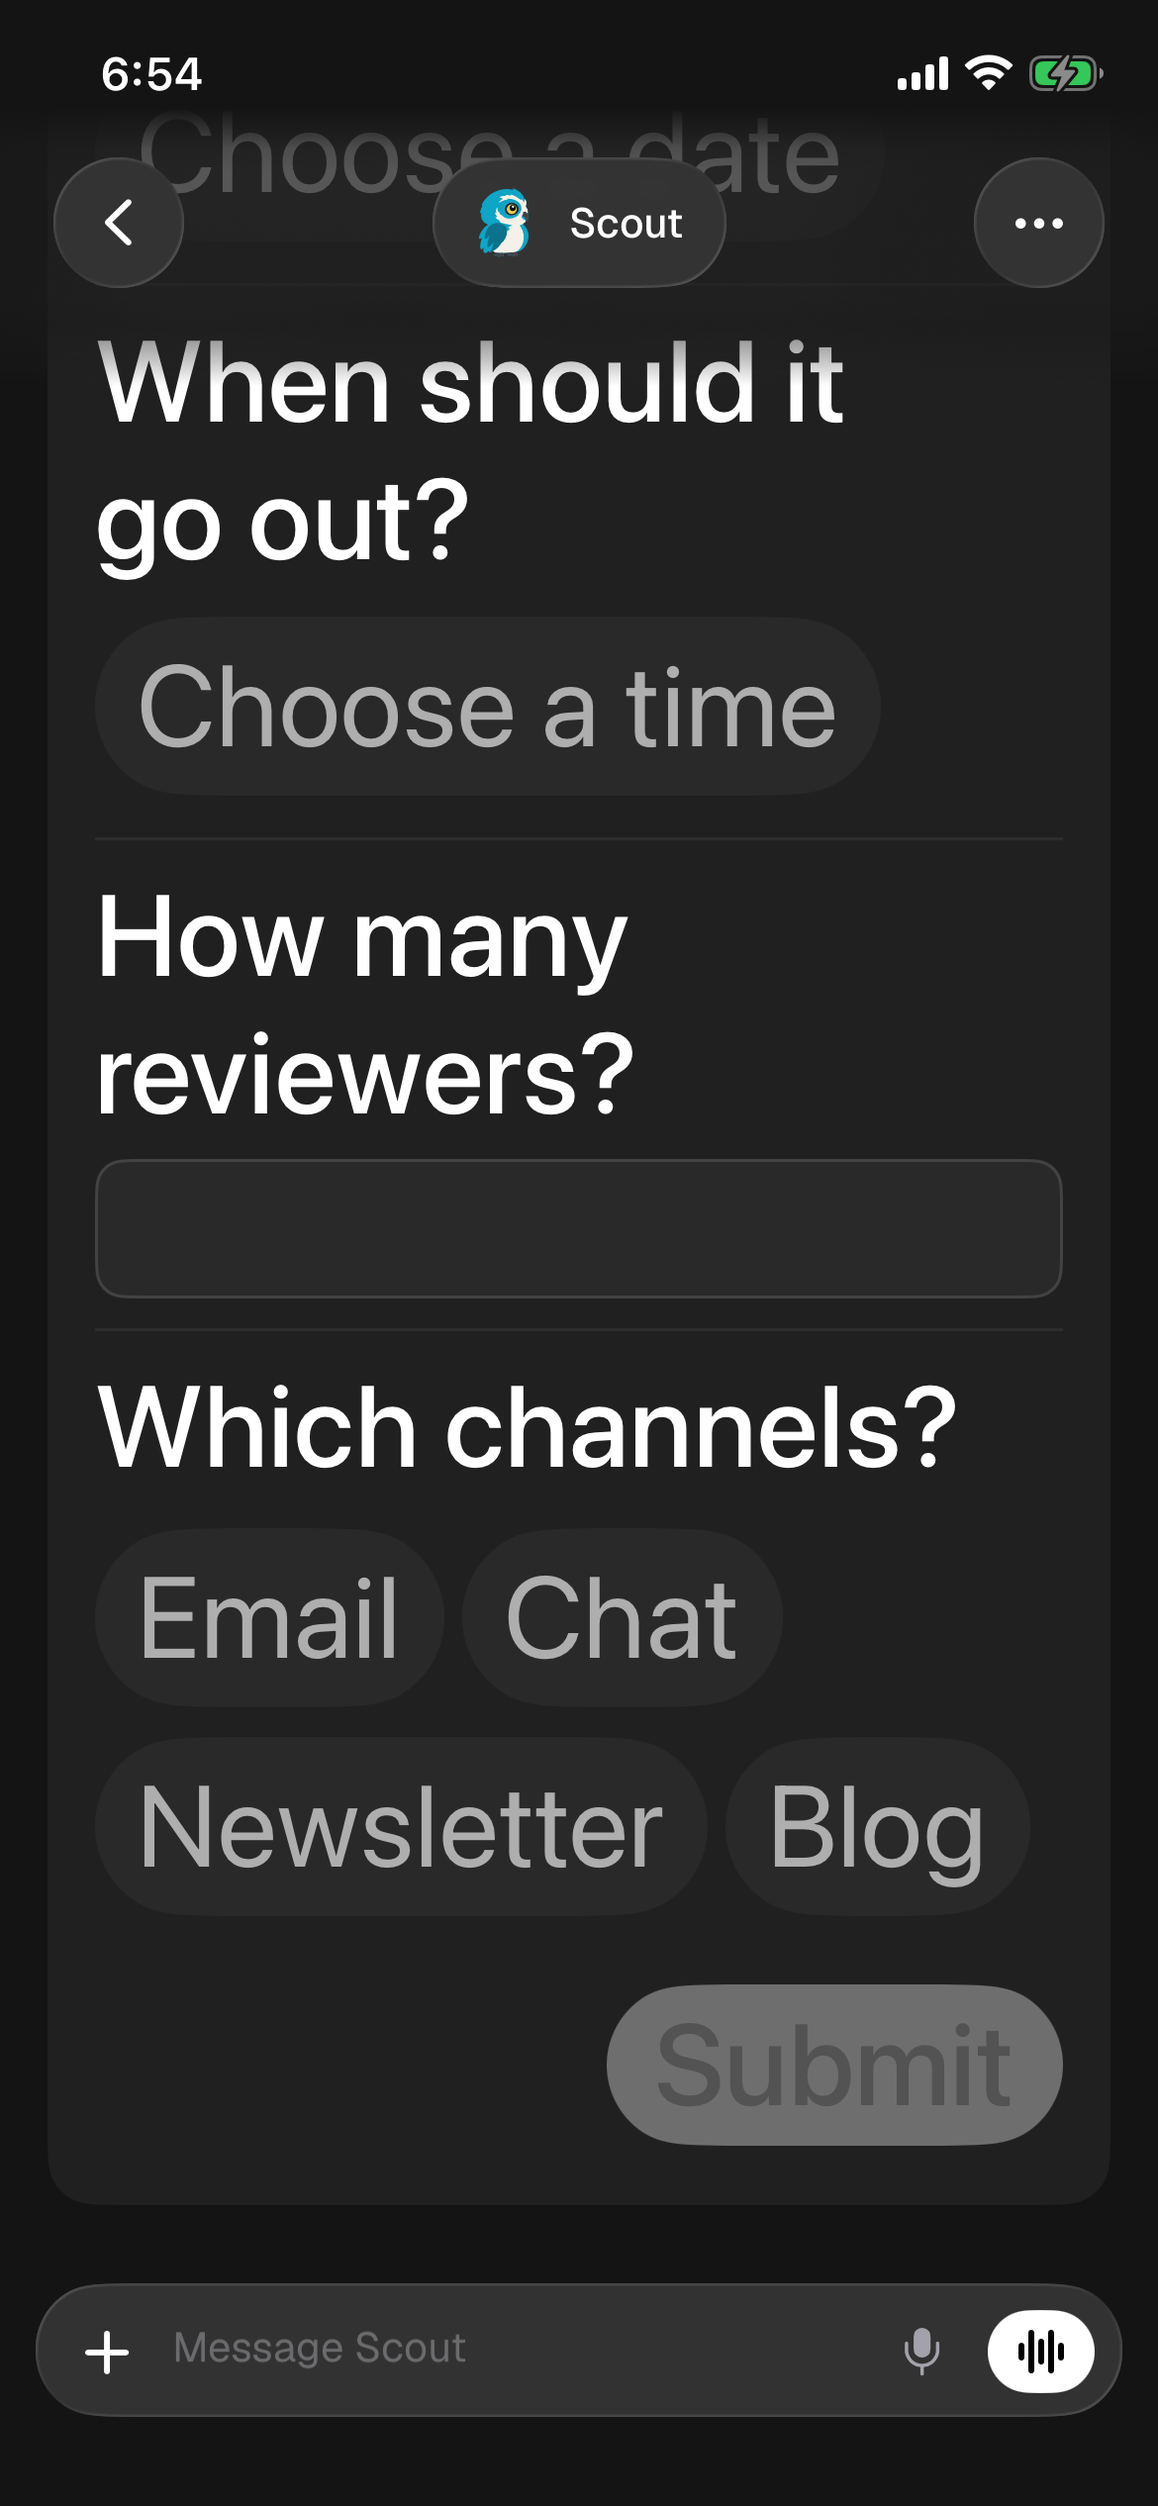
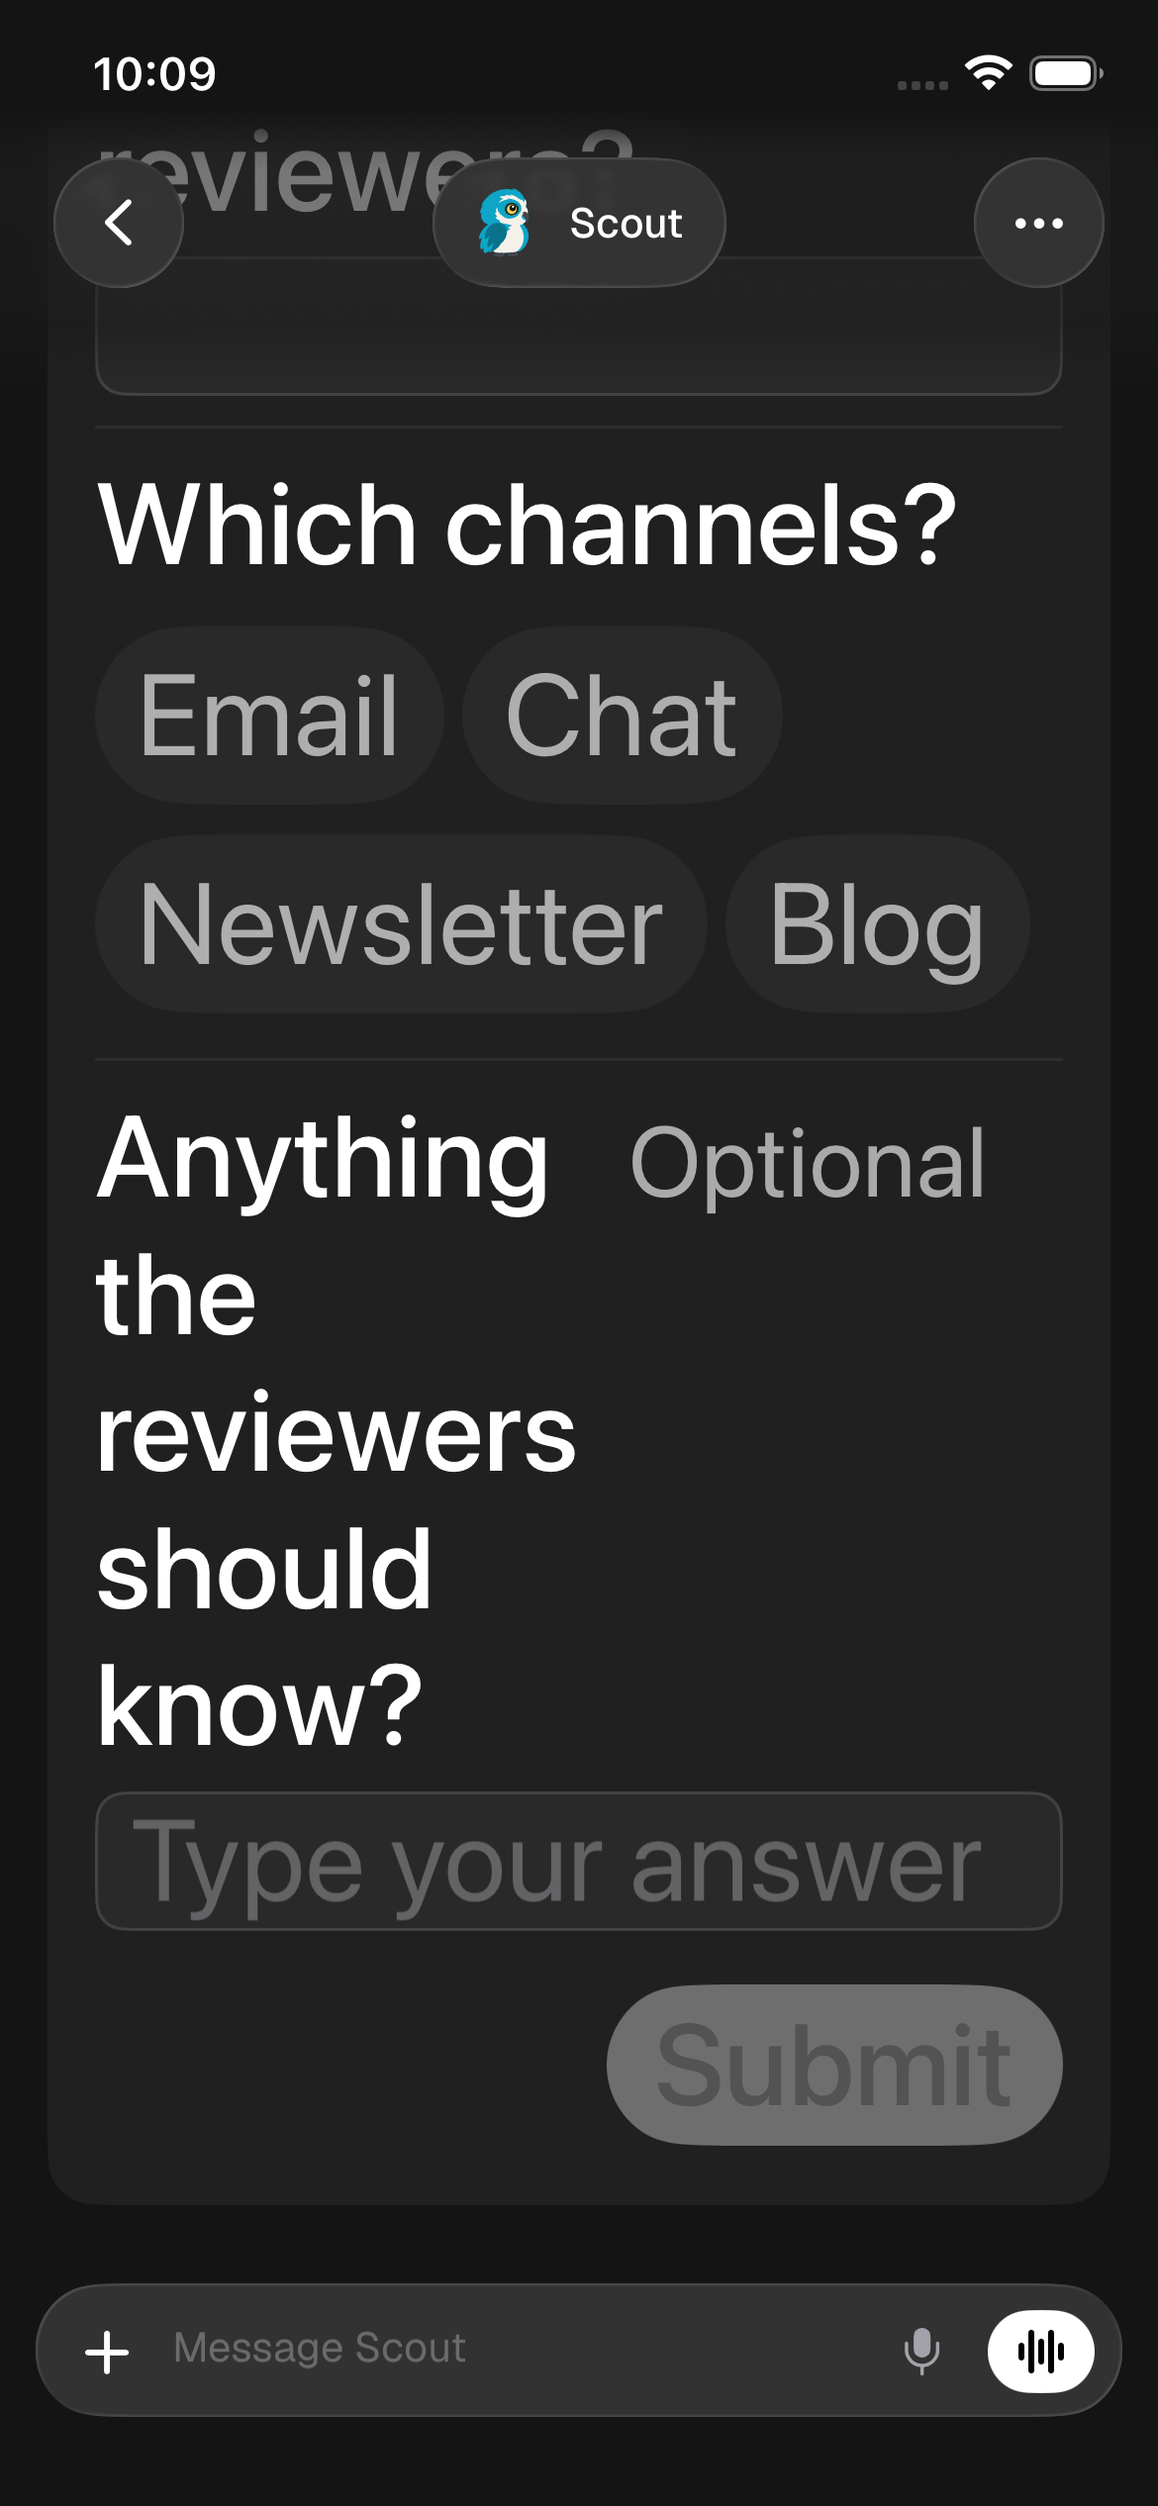
Refs #4490
A very tall row that changes height no longer leaves the chat blank (offset nudge once the content size settles); date and time pick in a sheet; secondary text 0.7 in forms (4.5:1+).

diff --git a/ios/App/Cards/FormCardView.swift b/ios/App/Cards/FormCardView.swift
@@ -22,14 +22,13 @@ struct FormCardView: View {
     @FocusState private var focus: Int?
     /// #4490: Dynamic Type. Every size in the form and its sheet scales with it.
     @ScaledMetric(relativeTo: .body) private var scale: CGFloat = 1
-    /// A date or time row whose picker is open and not yet answered.
-    @State private var picking: Set<Int> = []
-    @State private var pickerDate: [Int: Date] = [:]
+    /// The date or time row whose picker sheet is open.
+    @State private var pickerTarget: PickerTarget?
 
     private var card: OptionCard? { message.card }
     private var questions: [AskQuestion] { card?.questions ?? [] }
     private var checklist: Bool { questions.count == 1 && questions[0].isChecklist }
-    private var colors: QuestionSheetColors { QuestionSheetColors(desktop: desktop, scale: scale) }
+    private var colors: QuestionSheetColors { QuestionSheetColors(desktop: desktop, scale: scale, secondaryOpacity: 0.7) }
     private var ink2: Color { colors.inkSecondary }
     private var settled: Bool { (card?.answered != nil) || sent != nil || card.flatMap(WaitingCardSkip.fold) != nil }
 
@@ -64,9 +63,31 @@ struct FormCardView: View {
     }
 
     var body: some View {
-        if let card, !questions.isEmpty {
-            if settled { settledCard(card) } else { pendingCard(card) }
+        Group {
+            if let card, !questions.isEmpty {
+                if settled { settledCard(card) } else { pendingCard(card) }
+            }
         }
+        .sheet(item: $pickerTarget) { target in
+            FormPickerSheet(
+                colors: colors, title: questions.indices.contains(target.row) ? questions[target.row].question : "",
+                component: target.component, initial: target.initial,
+                onDone: { date in
+                    update(target.row) { $0.value = Self.formatter(target.format).string(from: date) }
+                    pickerTarget = nil
+                },
+                onCancel: { pickerTarget = nil }
+            )
+            .presentationDetents([.medium, .large])
+        }
+    }
+
+    private struct PickerTarget: Identifiable {
+        let row: Int
+        let component: DatePickerComponents
+        let format: String
+        let initial: Date
+        var id: Int { row }
     }
 
     // MARK: pending
@@ -252,45 +273,41 @@ struct FormCardView: View {
         }
     }
 
-    /// A native date or time picker, open without a value: the row counts as
-    /// answered only once the person picks (or presses Set).
+    /// A date or time row: a pill that says what is picked (or asks for it),
+    /// opening the native picker in a sheet. The row is answered only when
+    /// the person presses Done there. No UIKit picker sits in the chat row
+    /// (a compact `DatePicker` in a very tall row left the whole chat blank,
+    /// and it cannot wrap at the largest text sizes).
     private func pickerRow(_ index: Int, _ question: AskQuestion, component: DatePickerComponents, format: String, prompt: String) -> some View {
         let formatter = Self.formatter(format)
-        let value = draft(index).value
-        let answered = formatter.date(from: value)
-        let open = answered != nil || picking.contains(index)
-        func commit(_ date: Date) {
-            update(index) { $0.value = formatter.string(from: date) }
-            picking.remove(index)
-        }
-        // the native picker is measured by the stack, never by the wrapping layout
-        // (at the largest text size that gave it an unbounded height)
-        @ViewBuilder var row: some View {
-            if open {
-                DatePicker(
-                    "", selection: Binding(
-                        get: { answered ?? pickerDate[index] ?? Date() },
-                        set: { next in pickerDate[index] = next; commit(next) }
-                    ),
-                    displayedComponents: component
-                )
-                .labelsHidden()
-                .frame(minHeight: 44)
-                .disabled(answering)
-                .accessibilityLabel(Text(verbatim: question.question))
-                if answered == nil {
-                    // today, or the time shown now, without having to move the picker
-                    Button(String(localized: "Set")) { Haptics.selection(); commit(pickerDate[index] ?? Date()) }
-                        .font(colors.font(13.5, .medium))
-                        .foregroundStyle(colors.ink)
-                        .frame(minWidth: 44, minHeight: 44)
-                        .accessibilityLabel(Text(verbatim: "\(question.question), \(String(localized: "Set"))"))
-                }
+        let answered = formatter.date(from: draft(index).value)
+        let shown = answered.map { component == .date
+            ? $0.formatted(date: .abbreviated, time: .omitted) : $0.formatted(date: .omitted, time: .shortened) }
+        return FormPillsLayout(spacing: 8, lineSpacing: 0) {
+            Button {
+                Haptics.selection()
+                pickerTarget = PickerTarget(row: index, component: component, format: format, initial: answered ?? Date())
+            } label: {
+                Text(shown ?? prompt)
+                    .font(colors.font(13.5))
+                    .foregroundStyle(shown == nil ? ink2 : colors.ink)
+                    .multilineTextAlignment(.leading)
+                    .fixedSize(horizontal: false, vertical: true)
+                    .padding(.horizontal, 14)
+                    .padding(.vertical, 7)
+                    .frame(minHeight: 34)
+                    .background(colors.ink.opacity(shown == nil ? 0.04 : 0.08), in: Capsule())
+                    .padding(.vertical, 5)
+                    .frame(minHeight: 44)
+                    .contentShape(Rectangle())
+            }
+            .buttonStyle(.plain)
+            .disabled(answering)
+            .accessibilityLabel(Text(verbatim: "\(question.question), \(shown ?? prompt.lowercasedFirst)"))
+            if answered != nil {
                 Button {
                     Haptics.selection()
                     update(index) { $0.value = "" }
-                    picking.remove(index)
-                    pickerDate[index] = nil
                 } label: {
                     Image(systemName: "xmark.circle.fill")
                         .font(colors.font(15))
@@ -300,30 +317,7 @@ struct FormCardView: View {
                 }
                 .buttonStyle(.plain)
                 .accessibilityLabel(Text(verbatim: "\(question.question), \(String(localized: "Clear"))"))
-            } else {
-                Button {
-                    Haptics.selection()
-                    pickerDate[index] = Date()
-                    picking.insert(index)
-                } label: {
-                    Text(prompt)
-                        .font(colors.font(13.5))
-                        .foregroundStyle(ink2)
-                        .padding(.horizontal, 14)
-                        .padding(.vertical, 7)
-                        .background(colors.ink.opacity(0.04), in: Capsule())
-                        .padding(.vertical, 4)
-                        .frame(minHeight: 44)
-                        .contentShape(Rectangle())
-                }
-                .buttonStyle(.plain)
-                .disabled(answering)
-                .accessibilityLabel(Text(verbatim: "\(question.question), \(prompt.lowercasedFirst)"))
             }
-        }
-        return ViewThatFits(in: .horizontal) {
-            HStack(spacing: 8) { row }
-            VStack(alignment: .leading, spacing: 0) { row }
         }
     }
 
@@ -595,5 +589,66 @@ private struct FormPillsLayout: Layout {
             widest = max(widest, x - spacing)
         }
         return (origins, sizes, widest, y + rowHeight)
+    }
+}
+
+/// The native date or time picker, in a sheet: the card's row is answered
+/// when Done is pressed, never by opening the picker.
+private struct FormPickerSheet: View {
+    let colors: QuestionSheetColors
+    let title: String
+    let component: DatePickerComponents
+    let onDone: (Date) -> Void
+    let onCancel: () -> Void
+    @State private var date: Date
+
+    init(colors: QuestionSheetColors, title: String, component: DatePickerComponents, initial: Date,
+         onDone: @escaping (Date) -> Void, onCancel: @escaping () -> Void) {
+        self.colors = colors
+        self.title = title
+        self.component = component
+        self.onDone = onDone
+        self.onCancel = onCancel
+        _date = State(initialValue: initial)
+    }
+
+    var body: some View {
+        ScrollView {
+            VStack(alignment: .leading, spacing: 12) {
+                Text(title)
+                    .font(colors.font(14, .semibold))
+                    .foregroundStyle(colors.ink)
+                    .fixedSize(horizontal: false, vertical: true)
+                Group {
+                    if component == .date {
+                        DatePicker("", selection: $date, displayedComponents: component).datePickerStyle(.graphical)
+                    } else {
+                        DatePicker("", selection: $date, displayedComponents: component).datePickerStyle(.wheel)
+                    }
+                }
+                .labelsHidden()
+                .accessibilityLabel(Text(verbatim: title))
+                HStack {
+                    Button("Cancel", action: onCancel)
+                        .font(colors.font(13.5, .medium))
+                        .foregroundStyle(colors.ink)
+                        .frame(minWidth: 44, minHeight: 44)
+                        .accessibilityIdentifier("form-picker-cancel")
+                    Spacer()
+                    Button { onDone(date) } label: {
+                        Text("Done")
+                            .font(colors.font(13.5, .medium))
+                            .foregroundStyle(colors.fill)
+                            .padding(.horizontal, 20)
+                            .frame(minHeight: 44)
+                            .background(Capsule().fill(colors.ink))
+                    }
+                    .buttonStyle(.plain)
+                    .accessibilityIdentifier("form-picker-done")
+                }
+            }
+            .padding(20)
+        }
+        .background(colors.fill.ignoresSafeArea())
     }
 }

diff --git a/ios/UITests/FormCardTallRowUITests.swift b/ios/UITests/FormCardTallRowUITests.swift
@@ -1,0 +1,68 @@
+import XCTest
+
+/// #4490: a tall row must render, whatever its height. A form whose answered
+/// date picker was wider than the card at the largest text size left the whole
+/// chat blank (no crash); the picker is now capped. Each case opens a chat
+/// that ends on the tall row at the largest accessibility text size and finds
+/// the row's last control hittable and its title reachable by scrolling up.
+final class FormCardTallRowUITests: XCTestCase {
+    private func launch(until id: String, extra: [String] = []) -> XCUIApplication {
+        let app = XCUIApplication()
+        app.launchArguments = [
+            "-store-preview", "-form-cards-preview", "-open-first", "-form-cards-until", id, "-form-cards-alone",
+            "-companion.prefs.rosterDensity", "standard",
+            "-UIPreferredContentSizeCategoryName", "UICTContentSizeCategoryAccessibilityXXXL",
+            "-paritySkin", "system", "-AppleLanguages", "(en)", "-AppleLocale", "en",
+        ] + extra
+        app.launch()
+        return app
+    }
+
+    /// How many different colours a grid of pixels between the header and the
+    /// composer holds: a blank chat is one flat fill (a drawn card has text,
+    /// pills and fields), which the accessibility tree cannot tell.
+    private func distinctColours(_ app: XCUIApplication) -> Int {
+        guard let image = app.screenshot().image.cgImage,
+              let data = image.dataProvider?.data, let bytes = CFDataGetBytePtr(data) else { return 0 }
+        let bytesPerPixel = image.bitsPerPixel / 8
+        var seen = Set<UInt32>()
+        let top = image.height * 15 / 100, bottom = image.height * 85 / 100
+        for row in stride(from: top, to: bottom, by: 12) {
+            for column in stride(from: 0, to: image.width, by: 12) {
+                let offset = row * image.bytesPerRow + column * bytesPerPixel
+                // quantised so a gradient or anti-aliasing is not counted as content
+                seen.insert(UInt32(bytes[offset] / 24) << 16 | UInt32(bytes[offset + 1] / 24) << 8 | UInt32(bytes[offset + 2] / 24))
+            }
+        }
+        return seen.count
+    }
+
+    private func assertRenders(_ app: XCUIApplication, title: String, file: StaticString = #filePath, line: UInt = #line) {
+        let submit = app.buttons["Submit"]
+        defer { add(XCTAttachment(screenshot: app.screenshot())) }
+        XCTAssertTrue(submit.waitForExistence(timeout: 25), "the form drew nothing: \(app.debugDescription.suffix(1500))", file: file, line: line)
+        XCTAssertTrue(submit.isHittable, "the last control is not on screen", file: file, line: line)
+        sleep(2)
+        XCTAssertGreaterThan(distinctColours(app), 3, "the chat is blank: one flat colour where the card should be", file: file, line: line)
+        let heading = app.staticTexts[title]
+        var swipes = 0
+        while !heading.isHittable && swipes < 40 {
+            app.swipeDown(velocity: .fast)
+            swipes += 1
+        }
+        XCTAssertTrue(heading.isHittable, "the title is not reachable", file: file, line: line)
+    }
+
+    func testFiveRowFormWithAnAnsweredDateRenders() {
+        assertRenders(launch(until: "f-kinds", extra: ["-form-cards-fill"]), title: "Report details")
+    }
+
+    func testTwelveRowFormRenders() {
+        assertRenders(launch(until: "f-twelve", extra: ["-form-cards-fill"]), title: "Twelve questions")
+    }
+
+    func testALongOlderMessageRenders() {
+        let app = launch(until: "f-long-text")
+        XCTAssertTrue(app.staticTexts.containing(NSPredicate(format: "label BEGINSWITH 'Here is a very long note'")).firstMatch.waitForExistence(timeout: 25))
+    }
+}

diff --git a/ios/App/Features/Chat/JumpToLatest.swift b/ios/App/Features/Chat/JumpToLatest.swift
@@ -67,9 +67,29 @@ final class BottomFollow: ObservableObject {
                 // drawn rows shorter than their estimates can leave the
                 // offset past the content without the offset moving
                 Self.rescueBlank(scroll)
+                self?.nudgeWhenSettled(scroll)
             }
         })
         pinToBottomIfFollowing(view)
+    }
+
+    private var settleTask: Task<Void, Never>?
+
+    /// A very tall row that changes height after its first layout can leave
+    /// the lazy stack with the right geometry and nothing drawn. Once the
+    /// content size has stopped changing, move the offset by a point and back
+    /// so the stack realizes and draws the rows in view.
+    private func nudgeWhenSettled(_ scroll: UIScrollView) {
+        settleTask?.cancel()
+        let height = scroll.contentSize.height
+        settleTask = Task { @MainActor [weak scroll] in
+            try? await Task.sleep(nanoseconds: 350_000_000)
+            guard !Task.isCancelled, let scroll, scroll.contentSize.height == height,
+                  !Self.userScrolling(scroll), scroll.contentSize.height > scroll.bounds.height else { return }
+            let y = scroll.contentOffset.y
+            scroll.setContentOffset(CGPoint(x: scroll.contentOffset.x, y: y - 1), animated: false)
+            scroll.setContentOffset(CGPoint(x: scroll.contentOffset.x, y: y), animated: false)
+        }
     }
 
     private func distance(_ scroll: UIScrollView) -> CGFloat {

diff --git a/ios/App/Cards/QuestionSheet.swift b/ios/App/Cards/QuestionSheet.swift
@@ -21,12 +21,14 @@ struct QuestionSheetColors {
     /// every other card exactly as it was.
     let scale: CGFloat
 
-    init(desktop: DesktopTheme?, scale: CGFloat = 1) {
+    /// `secondaryOpacity`: 0.62 keeps every other card as it was; the form passes 0.7,
+    /// which holds 4.5:1 on the card and on its pills in the light theme.
+    init(desktop: DesktopTheme?, scale: CGFloat = 1, secondaryOpacity: Double = 0.62) {
         self.desktop = desktop
         self.scale = scale
         fill = desktop?.card ?? BubbleColor.theirs
         ink = desktop?.ink ?? BubbleColor.theirsText
-        inkSecondary = desktop?.inkSecondary ?? BubbleColor.theirsText.opacity(0.62)
+        inkSecondary = desktop?.inkSecondary ?? BubbleColor.theirsText.opacity(secondaryOpacity)
     }
 
     func font(_ size: CGFloat, _ weight: Font.Weight = .regular) -> Font {
